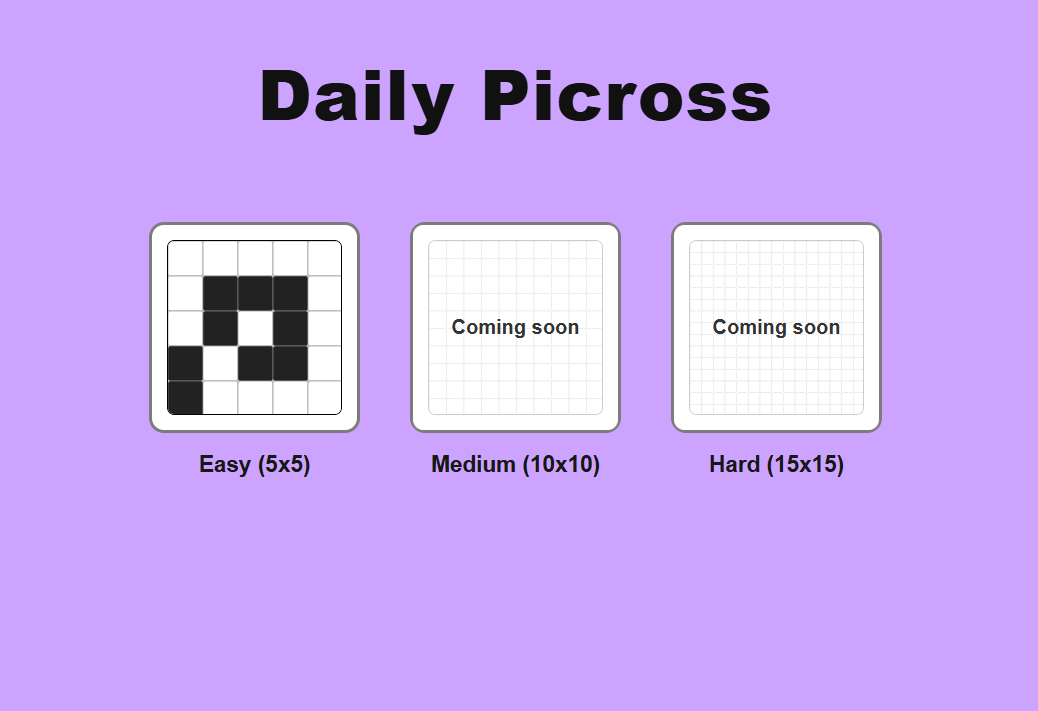
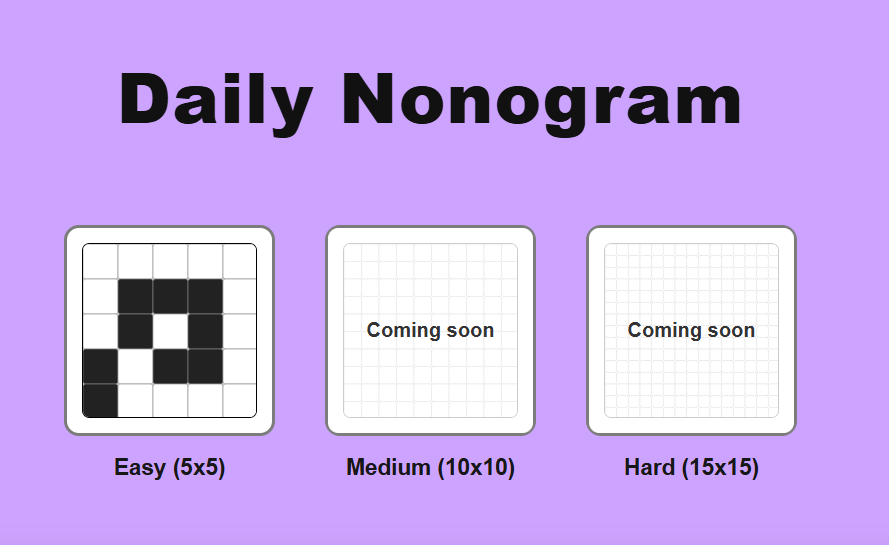
missed a couple things

diff --git a/app/nonogram/page.tsx b/app/nonogram/page.tsx
@@ -63,7 +63,7 @@ export default function PicrossSplash() {
         <UserMenu />
       </div>
       <h1 style={{ fontSize: 56, lineHeight: 1, margin: 25, fontWeight: 800, letterSpacing: 1, color: '#111' }}>Daily Nonogram</h1>
-      <div style={{ display: "flex", gap: 40, margin: 50, alignItems: 'flex-end' }}>
+      <div className="difficulty-row">
         {difficulties.map(d => {
           const disabled = d.value !== 'easy' && !isTyler;
           const containerStyle: React.CSSProperties = { border: "3px solid #7c7c7c", borderRadius: 12, background: "#fff", padding: 12, cursor: disabled ? 'default' : 'pointer', display: "inline-block", position: 'relative' };
@@ -76,7 +76,7 @@ export default function PicrossSplash() {
                 </div>
               ) : (
                 <Link
-                  href={`/picross/play?difficulty=${d.value}`}
+                  href={`/nonogram/play?difficulty=${d.value}`}
                   className="nonogram-difficulty-btn"
                   style={containerStyle}
                   prefetch={true}
@@ -128,6 +128,25 @@ export default function PicrossSplash() {
         </div>
       </div>
       <style jsx>{`
+        .difficulty-row {
+          display: flex;
+          gap: 40px;
+          margin: 50px;
+          align-items: flex-end;
+          flex-wrap: wrap;
+        }
+        @media (max-width: 600px) {
+          .difficulty-row {
+            flex-direction: column;
+            align-items: center;
+            gap: 16px;
+            margin: 24px;
+          }
+          .nonogram-difficulty-btn {
+            width: 100%;
+            max-width: 320px;
+          }
+        }
         .nonogram-difficulty-btn {
           border: 3px solid #7c7c7c;
           transition: border-color 120ms, transform 120ms, box-shadow 120ms;

diff --git a/app/layout.tsx b/app/layout.tsx
@@ -24,7 +24,7 @@ const metadata: Metadata = {
 
 import Header from "./components/Header";
 import SessionProviderClient from "./providers/SessionProviderClient";
-import { PicrossPrefetchProvider } from "./picross/PicrossPrefetchContext";
+import { PicrossPrefetchProvider } from "./nonogram/PicrossPrefetchContext";
 
 export const DarkModeContext = createContext({
   isDarkMode: false,

diff --git a/app/nonogram/play/page.tsx b/app/nonogram/play/page.tsx
@@ -474,7 +474,7 @@ function PicrossPlayInner() {
     <div style={{ display: "flex", flexDirection: "column", alignItems: "center", marginTop: 0, background: '#cca3ff', minHeight: '100vh', width: '100%' }}>
       <div style={{ width: '100%', boxSizing: 'border-box', paddingLeft: 15, display: 'flex', alignItems: 'center', gap: 8, justifyContent: 'flex-start', marginBottom: 8 }}>
         <button
-          onClick={() => router.push("/picross")}
+          onClick={() => router.push("/nonogram")}
           aria-label="Back"
           style={{ background: 'transparent', border: 'none', padding: '6px 0px', margin: 0, fontSize: 26, lineHeight: 1, cursor: 'pointer', color: '#000', fontWeight: 800 }}
         >

diff --git a/app/page.tsx b/app/page.tsx
@@ -20,7 +20,7 @@ const projectCards: ProjectCard[] = [
     imageAlt: "Resume page preview",
   },
   {
-    href: "/picross",
+    href: "/nonogram",
     title: "Daily Nonogram",
     description:
       "Take a break with a little Picros- I mean Nonogram! \n\nCome back every day for a new puzzle!",

diff --git a/app/components/Header.tsx b/app/components/Header.tsx
@@ -16,7 +16,6 @@ const UserMenu = dynamic(() => import("./UserMenu"), { ssr: false });
     if (path.startsWith("/daily-notes")) return "#598eff"; // blue
     if (path.startsWith("/roku")) return "#9f53da"; // roku purple
     if (path.startsWith("/videoManager")) return "#ffffff"; // white
-    if (path.startsWith("/picross")) return "#cca3ff"; //nonogram purple
     if (path.startsWith("/nonogram")) return "#cca3ff"; //nonogram purple
     return "#fd9cce"; // default/home pink-400
   }